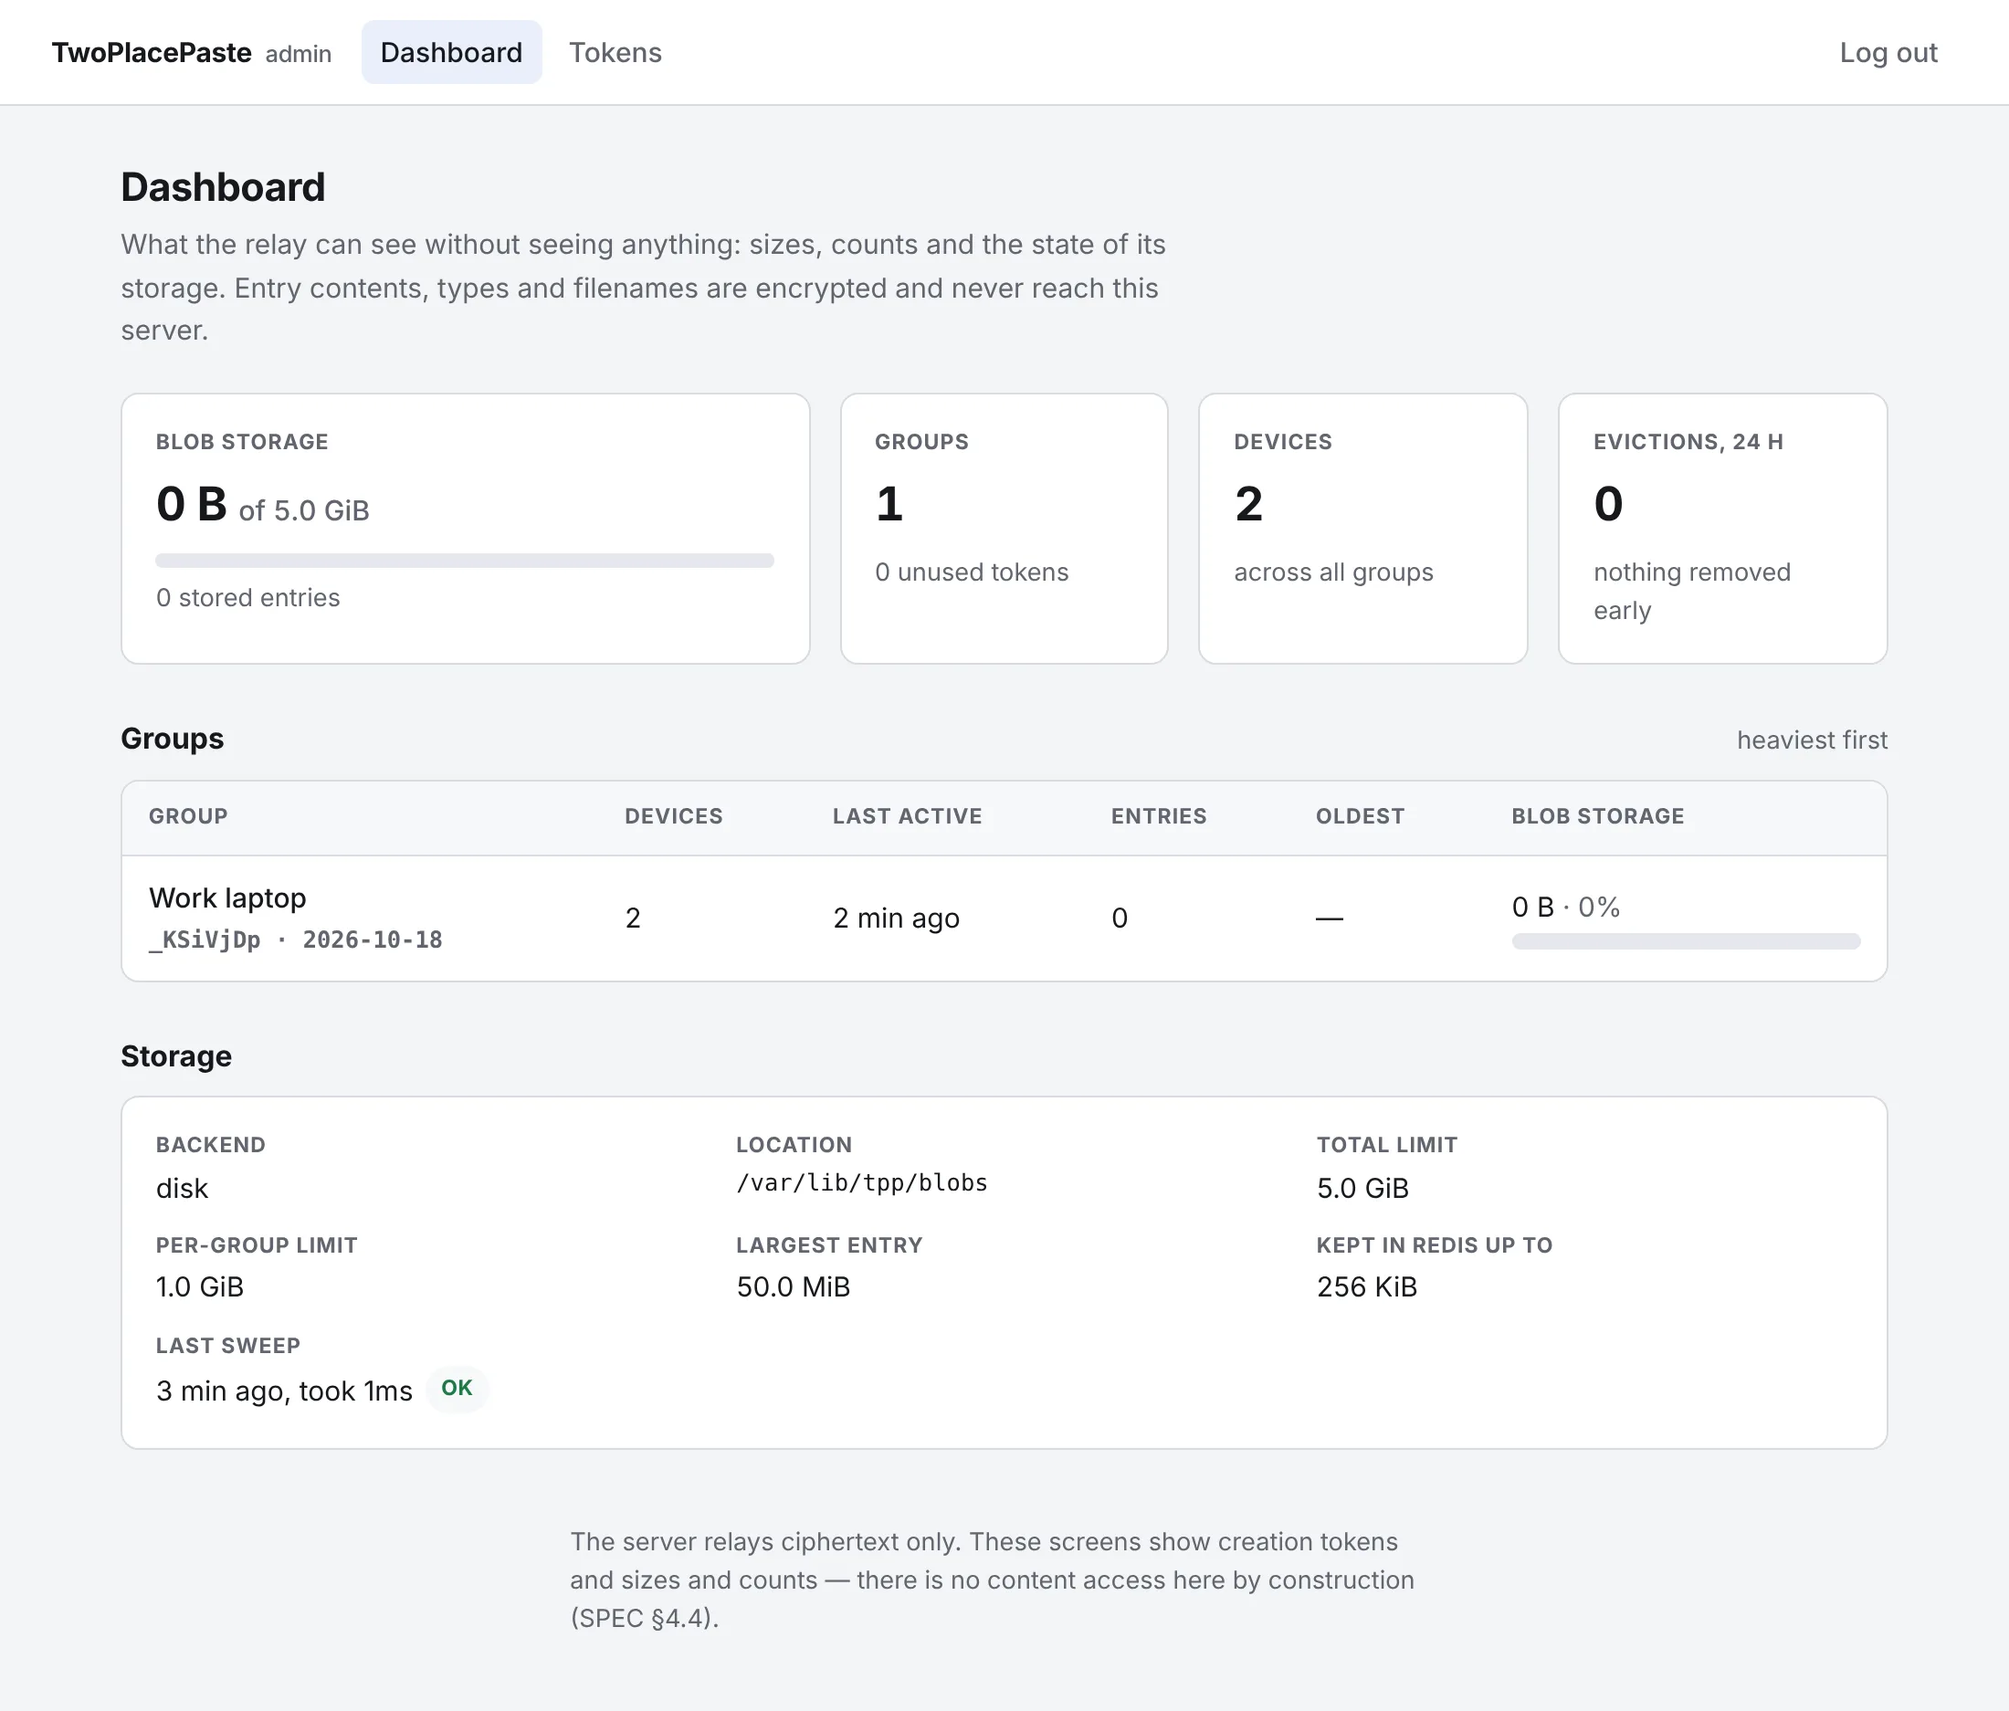
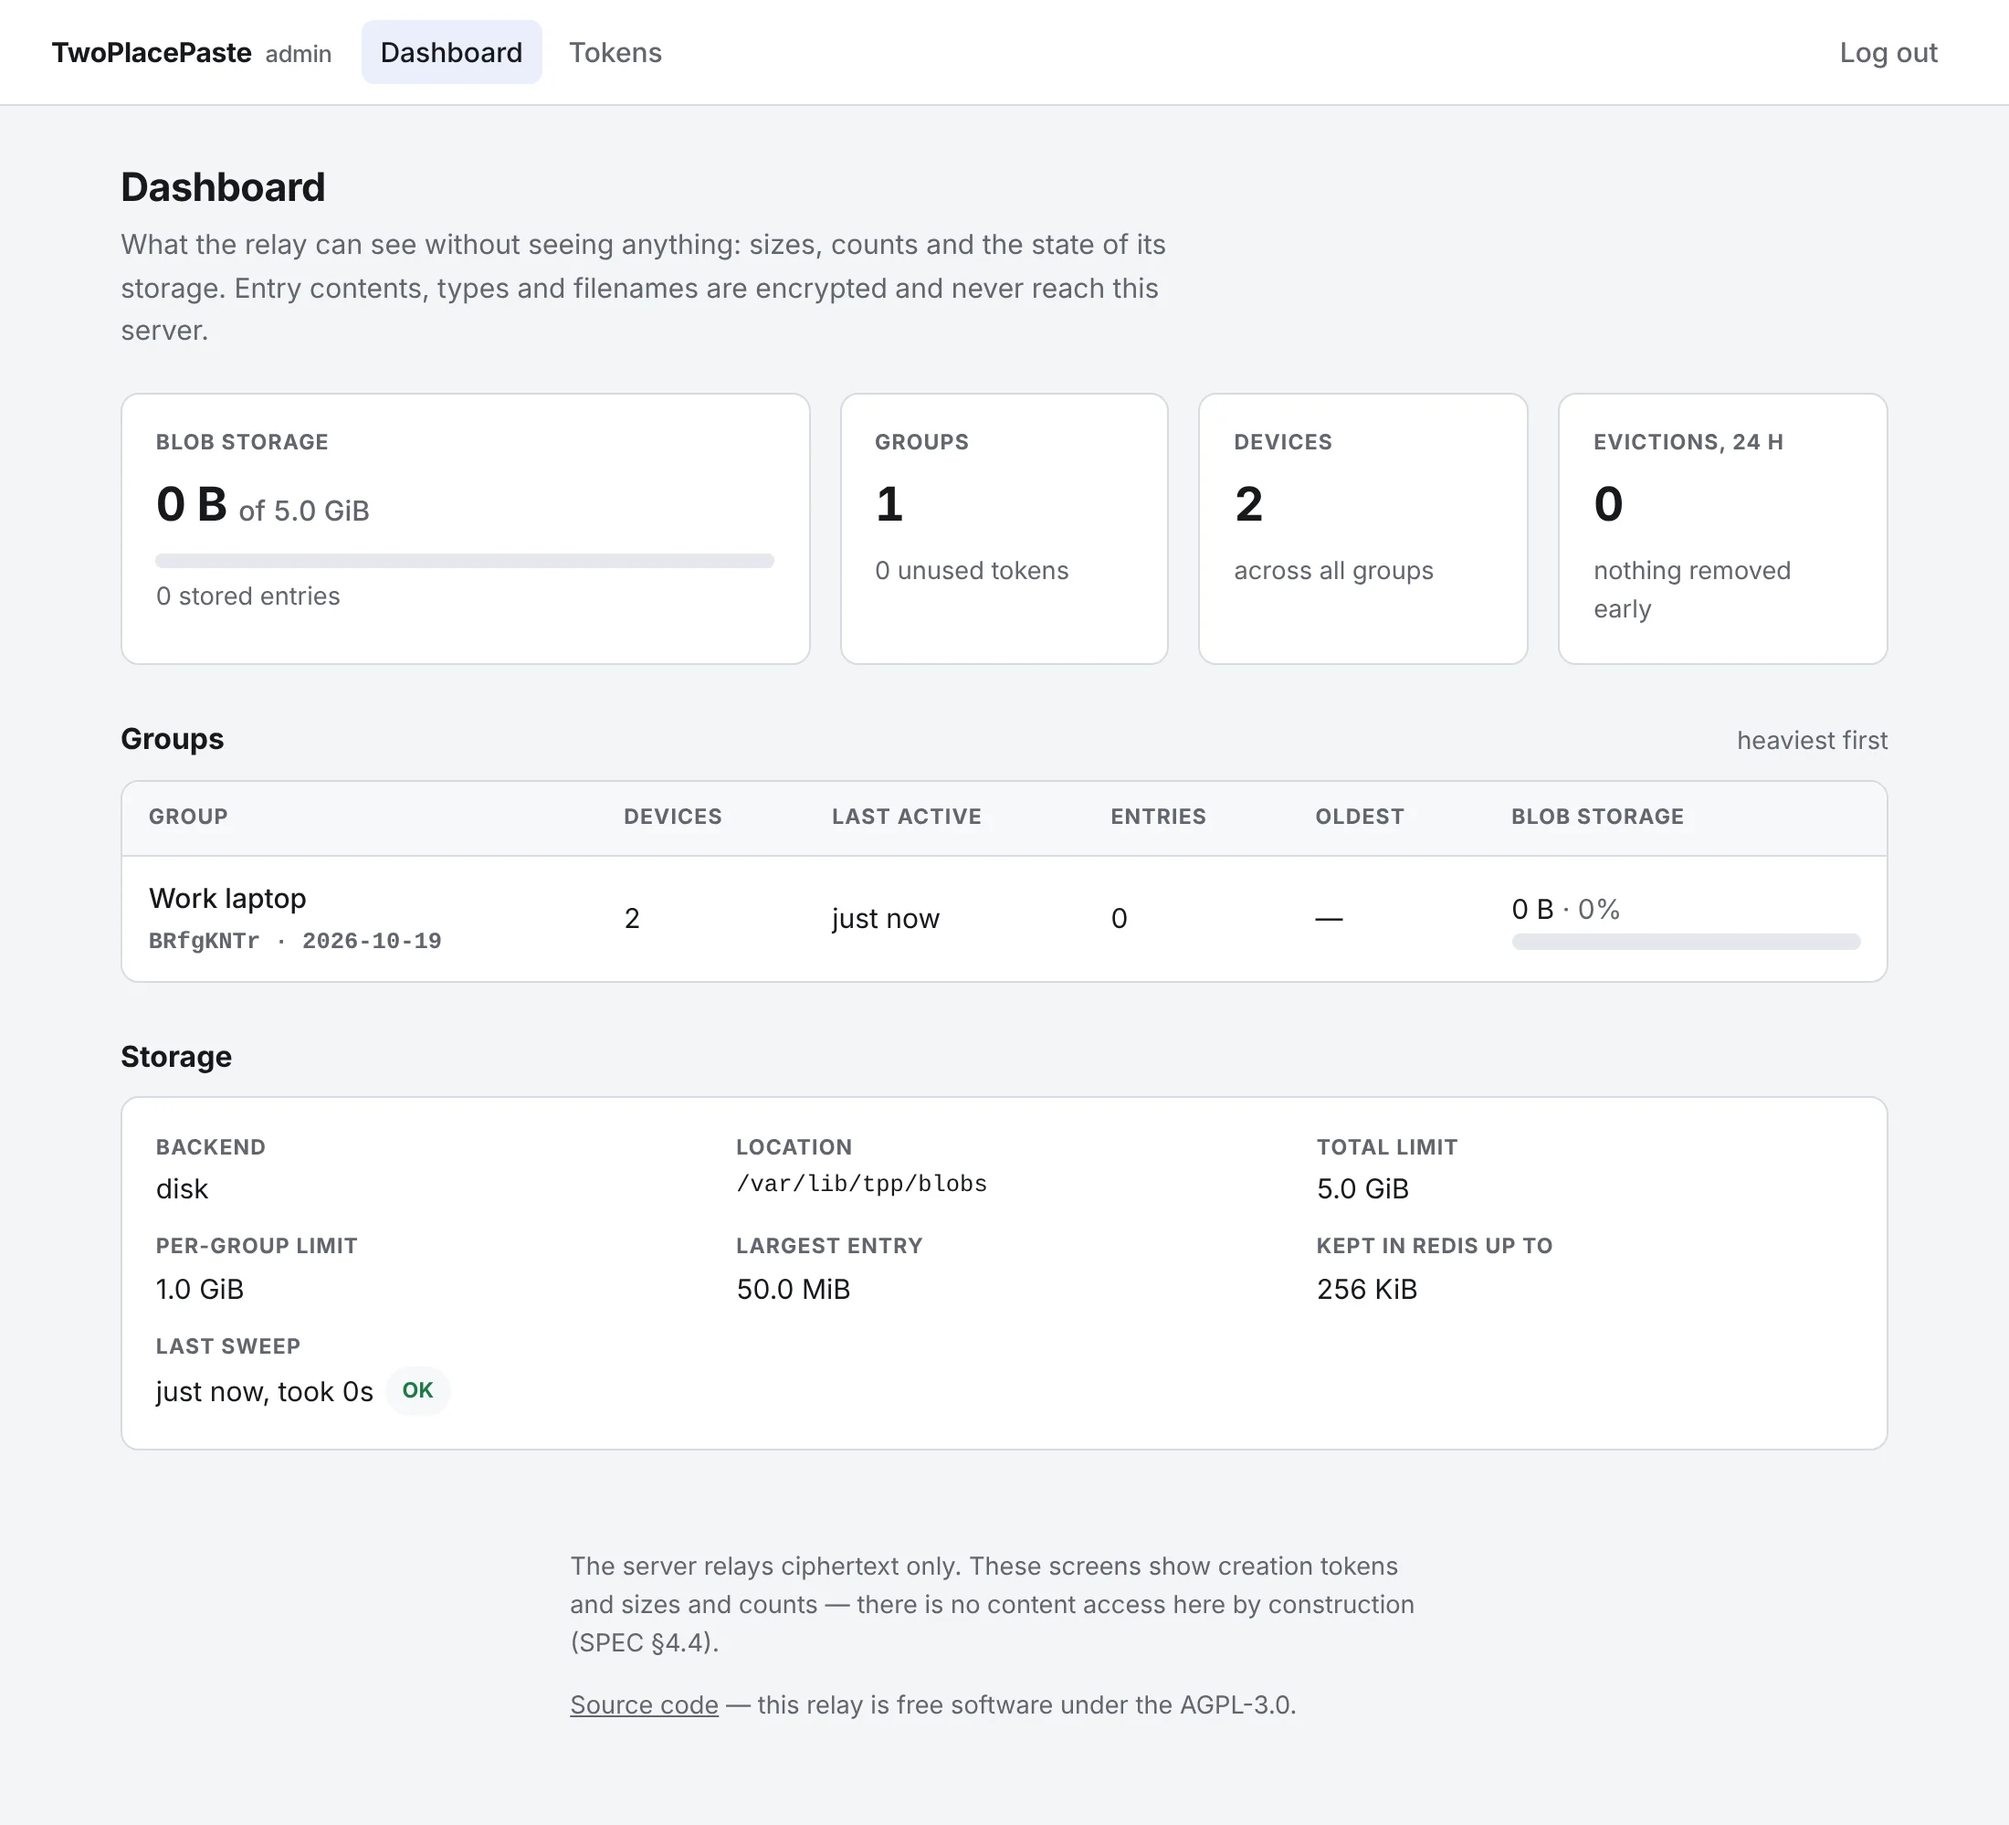
Link the relay's pages to its source code
The relay is AGPL-3.0, which asks that anyone running a modified relay
for other people offers those people its source. The relay now links to
its source from every page it serves to people, and operators of a fork
point that link at their own code with one setting.

- server: new TPP_SOURCE_URL setting (default: the upstream GitHub
  repository, must be http:// or https://) and GET /source, which
  redirects to it (internal/sourcelink). The pairing page stays a
  static file because it links to /source rather than embedding the
  URL.
- Admin pages (login included) and the pairing page show a "Source
  code" link in the footer.
- Docs: the setting in configuration.md and deploy/.env.example, the
  /source endpoint, how the link relates to the AGPL in the self-hosting
  overview, and retaken admin screenshots.
- LICENSING.md and CLAUDE.md mention the link and that new human-facing
  pages must keep it.

Claude-Session: https://claude.ai/code/session_016wNNAFUyyeJ3RLgMAUAmiP

diff --git a/server/web/admin/base.html b/server/web/admin/base.html
@@ -29,11 +29,12 @@
 {{if .Error}}<p class="notice error" role="alert">{{.Error}}</p>{{end}}
 {{template "content" .}}
 </main>
-{{if .Authenticated}}
 <footer>
-  The server relays ciphertext only. These screens show creation tokens and
-  sizes and counts — there is no content access here by construction (SPEC §4.4).
+  {{if .Authenticated}}
+  <p>The server relays ciphertext only. These screens show creation tokens and
+  sizes and counts — there is no content access here by construction (SPEC §4.4).</p>
+  {{end}}
+  <p><a href="/source">Source code</a> — this relay is free software under the AGPL-3.0.</p>
 </footer>
-{{end}}
 </body>
 </html>{{end}}

diff --git a/server/web/pair/page.html b/server/web/pair/page.html
@@ -40,8 +40,9 @@
   </div>
 </main>
 <footer class="muted small">
-  The code is in this link's fragment, so it was never sent to this server. The
-  page you are reading was served without it, and this relay does not know it.
+  <p>The code is in this link's fragment, so it was never sent to this server. The
+  page you are reading was served without it, and this relay does not know it.</p>
+  <p><a href="/source">Source code</a></p>
 </footer>
 </body>
 </html>

diff --git a/server/web/pair/style.css b/server/web/pair/style.css
@@ -89,3 +89,6 @@ footer { width: min(26rem, 100%); text-align: center; margin: 0; }
 }
 
 .status { min-height: 1.3em; margin: 0.5rem 0 0; font-size: 0.85rem; color: var(--muted); }
+
+/* The "Source code" link sits in muted text and should read as part of it. */
+footer a { color: inherit; }

diff --git a/server/web/admin/style.css b/server/web/admin/style.css
@@ -679,3 +679,6 @@ dialog::backdrop { background: rgba(10, 12, 16, 0.45); }
   white-space: nowrap;
   border: 0;
 }
+
+/* The "Source code" link sits in muted text and should read as part of it. */
+footer a { color: inherit; }

diff --git a/server/internal/config/config.go b/server/internal/config/config.go
@@ -49,6 +49,10 @@ const (
 	DefaultChunk         = 8 << 20   // 8 MiB: under the frame cap, over S3's 5 MiB part floor
 	DefaultUploadTTL     = 10 * time.Minute
 
+	// DefaultSourceURL is where the relay's "Source code" link points unless
+	// the operator sets TPP_SOURCE_URL.
+	DefaultSourceURL = "https://github.com/Mark7888/two-place-paste"
+
 	// DefaultGroupMax is the per-group blob storage limit. The total limit
 	// defaults to unlimited: only the operator knows how big the volume or
 	// bucket is.
@@ -65,6 +69,11 @@ type Config struct {
 	// "https://tpp.example.com". Creation-token URLs and their QR codes are
 	// built from it (SPEC §3.1, §4.4), so it must not include a path.
 	PublicBaseURL string
+
+	// SourceURL is where the relay's "Source code" link points. The server is
+	// AGPL-3.0: whoever runs a modified relay for other people has to offer
+	// them its source, and pointing this at their fork is how they do it.
+	SourceURL string
 
 	LogLevel slog.Level
 
@@ -234,6 +243,7 @@ func Load(opts Options) (*Config, error) {
 	cfg := &Config{
 		HTTPAddr:      r.str("TPP_HTTP_ADDR", DefaultHTTPAddr),
 		PublicBaseURL: strings.TrimRight(r.str("TPP_PUBLIC_BASE_URL", ""), "/"),
+		SourceURL:     r.str("TPP_SOURCE_URL", DefaultSourceURL),
 		LogLevel:      r.logLevel("TPP_LOG_LEVEL", slog.LevelInfo),
 		Redis: RedisConfig{
 			Addr:     r.str("TPP_REDIS_ADDR", DefaultRedisAddr),
@@ -279,6 +289,9 @@ func (c *Config) Validate() error {
 		errs = append(errs, errors.New("TPP_PUBLIC_BASE_URL is required (creation-token URLs and QR codes are built from it)"))
 	} else if !strings.HasPrefix(c.PublicBaseURL, "http://") && !strings.HasPrefix(c.PublicBaseURL, "https://") {
 		errs = append(errs, fmt.Errorf("TPP_PUBLIC_BASE_URL must start with http:// or https://, got %q", c.PublicBaseURL))
+	}
+	if !strings.HasPrefix(c.SourceURL, "http://") && !strings.HasPrefix(c.SourceURL, "https://") {
+		errs = append(errs, fmt.Errorf("TPP_SOURCE_URL must start with http:// or https://, got %q", c.SourceURL))
 	}
 	if c.Redis.Addr == "" {
 		errs = append(errs, errors.New("TPP_REDIS_ADDR must not be empty"))

diff --git a/server/internal/sourcelink/sourcelink_test.go b/server/internal/sourcelink/sourcelink_test.go
@@ -1,0 +1,64 @@
+package sourcelink_test
+
+import (
+	"net/http"
+	"net/http/httptest"
+	"testing"
+
+	"github.com/Mark7888/two-place-paste/server/internal/httpapi"
+	"github.com/Mark7888/two-place-paste/server/internal/sourcelink"
+)
+
+func TestRedirectsToSourceURL(t *testing.T) {
+	t.Parallel()
+
+	tests := []struct {
+		name string
+		url  string
+	}{
+		{"upstream", "https://github.com/Mark7888/two-place-paste"},
+		{"fork with a path", "https://git.example.com/someone/tpp-fork/src/branch/main"},
+	}
+	for _, tt := range tests {
+		t.Run(tt.name, func(t *testing.T) {
+			t.Parallel()
+
+			srv := httptest.NewServer(httpapi.New(sourcelink.New(tt.url)))
+			t.Cleanup(srv.Close)
+			client := srv.Client()
+			client.CheckRedirect = func(*http.Request, []*http.Request) error { return http.ErrUseLastResponse }
+
+			resp, err := client.Get(srv.URL + "/source")
+			if err != nil {
+				t.Fatalf("GET /source: %v", err)
+			}
+			t.Cleanup(func() { _ = resp.Body.Close() })
+
+			if resp.StatusCode != http.StatusFound {
+				t.Errorf("status = %d, want %d", resp.StatusCode, http.StatusFound)
+			}
+			if got := resp.Header.Get("Location"); got != tt.url {
+				t.Errorf("Location = %q, want %q", got, tt.url)
+			}
+			if got := resp.Header.Get("Cache-Control"); got != "no-store" {
+				t.Errorf("Cache-Control = %q, want %q", got, "no-store")
+			}
+		})
+	}
+}
+
+func TestOnlyGet(t *testing.T) {
+	t.Parallel()
+
+	srv := httptest.NewServer(httpapi.New(sourcelink.New("https://example.com/src")))
+	t.Cleanup(srv.Close)
+
+	resp, err := srv.Client().Post(srv.URL+"/source", "text/plain", nil)
+	if err != nil {
+		t.Fatalf("POST /source: %v", err)
+	}
+	t.Cleanup(func() { _ = resp.Body.Close() })
+	if resp.StatusCode != http.StatusMethodNotAllowed {
+		t.Errorf("POST /source status = %d, want %d", resp.StatusCode, http.StatusMethodNotAllowed)
+	}
+}

diff --git a/server/internal/sourcelink/sourcelink.go b/server/internal/sourcelink/sourcelink.go
@@ -1,0 +1,37 @@
+// Package sourcelink serves GET /source, the relay's link to its own source
+// code.
+//
+// The relay is licensed under the AGPL-3.0, which asks that anyone who runs a
+// modified relay for other people offers those people its source. The admin
+// and pairing pages link here, and this redirects to TPP_SOURCE_URL, so an
+// operator running a fork points every link at it by changing one setting.
+//
+// It is a redirect rather than a URL baked into each page so the pairing page
+// can stay a static file.
+package sourcelink
+
+import "net/http"
+
+// Server redirects GET /source to the configured source code URL.
+type Server struct {
+	url string
+}
+
+// New returns a Server that redirects to url. The config loader has already
+// checked that url is an http:// or https:// URL.
+func New(url string) *Server {
+	return &Server{url: url}
+}
+
+// Register installs GET /source.
+func (s *Server) Register(mux *http.ServeMux) {
+	mux.HandleFunc("GET /source", s.handle)
+}
+
+func (s *Server) handle(w http.ResponseWriter, r *http.Request) {
+	// No-store so a changed TPP_SOURCE_URL takes effect at once, rather than
+	// after a browser forgets a cached redirect.
+	w.Header().Set("Cache-Control", "no-store")
+	w.Header().Set("Referrer-Policy", "no-referrer")
+	http.Redirect(w, r, s.url, http.StatusFound)
+}

diff --git a/server/internal/config/config_test.go b/server/internal/config/config_test.go
@@ -64,6 +64,9 @@ func TestLoadDefaults(t *testing.T) {
 		t.Errorf("Blob limits = total %d, group %d, min free %d; want 0, %d, 0",
 			cfg.Blob.MaxTotalBytes, cfg.Blob.MaxGroupBytes, cfg.Blob.MinFreeBytes, DefaultGroupMax)
 	}
+	if cfg.SourceURL != DefaultSourceURL {
+		t.Errorf("SourceURL = %q, want %q", cfg.SourceURL, DefaultSourceURL)
+	}
 	if cfg.LogLevel != slog.LevelInfo {
 		t.Errorf("LogLevel = %s, want info", cfg.LogLevel)
 	}
@@ -190,6 +193,11 @@ func TestLoadValidationErrors(t *testing.T) {
 			name:    "public base url without scheme",
 			env:     map[string]string{"ADMIN_PASSWORD": "pw", "TPP_PUBLIC_BASE_URL": "tpp.example.com"},
 			wantErr: "must start with http:// or https://",
+		},
+		{
+			name:    "source url without scheme",
+			env:     map[string]string{"ADMIN_PASSWORD": "pw", "TPP_PUBLIC_BASE_URL": "https://x.example", "TPP_SOURCE_URL": "github.com/someone/fork"},
+			wantErr: "TPP_SOURCE_URL must start with http:// or https://",
 		},
 		{
 			name:    "unknown blob backend",

diff --git a/server/cmd/tpp/main.go b/server/cmd/tpp/main.go
@@ -35,6 +35,7 @@ import (
 	"github.com/Mark7888/two-place-paste/server/internal/httpapi"
 	"github.com/Mark7888/two-place-paste/server/internal/pairlink"
 	"github.com/Mark7888/two-place-paste/server/internal/quota"
+	"github.com/Mark7888/two-place-paste/server/internal/sourcelink"
 	"github.com/Mark7888/two-place-paste/server/internal/store"
 	"github.com/Mark7888/two-place-paste/server/internal/ws"
 )
@@ -206,7 +207,10 @@ func serve(args []string) error {
 	// and never sees a code — the code is in the fragment.
 	pairSrv := pairlink.New(logger)
 
-	handler := httpapi.NewWithOptions(httpapi.Options{Logger: logger}, wsSrv, adminSrv, pairSrv)
+	// The "Source code" link on the admin and pairing pages (AGPL-3.0 §13).
+	sourceSrv := sourcelink.New(cfg.SourceURL)
+
+	handler := httpapi.NewWithOptions(httpapi.Options{Logger: logger}, wsSrv, adminSrv, pairSrv, sourceSrv)
 	srv := &http.Server{
 		Addr:              cfg.HTTPAddr,
 		Handler:           handler,

diff --git a/server/internal/admin/admin_test.go b/server/internal/admin/admin_test.go
@@ -559,6 +559,25 @@ func TestWildcardDoesNotShadowOtherRoutes(t *testing.T) {
 	}
 }
 
+// TestPagesLinkToSource covers the AGPL "Source code" link, which every
+// admin page shows, signed in or not.
+func TestPagesLinkToSource(t *testing.T) {
+	t.Parallel()
+
+	f := newFixture(t, "https://tpp.example.com")
+	c := f.client()
+
+	if body := readBody(t, f.get(c, "/admin/login")); !strings.Contains(body, `href="/source"`) {
+		t.Error("the login page has no link to /source")
+	}
+	f.login(c)
+	for _, path := range []string{"/admin/", "/admin/tokens"} {
+		if body := readBody(t, f.get(c, path)); !strings.Contains(body, `href="/source"`) {
+			t.Errorf("GET %s has no link to /source", path)
+		}
+	}
+}
+
 func (f *fixture) postJSON(c *http.Client, path, body string) *http.Response {
 	f.t.Helper()
 	req, err := http.NewRequestWithContext(context.Background(), http.MethodPost, f.srv.URL+path, strings.NewReader(body))

diff --git a/server/internal/pairlink/pairlink_test.go b/server/internal/pairlink/pairlink_test.go
@@ -104,3 +104,15 @@ func TestPageCarriesNoCode(t *testing.T) {
 		t.Error("the page echoed a value from the request")
 	}
 }
+
+// The relay is AGPL-3.0, so the one page it serves to people links to its
+// source (internal/sourcelink serves the redirect).
+func TestPageLinksToSource(t *testing.T) {
+	t.Parallel()
+	srv := serve(t)
+
+	_, body := get(t, srv, "/pair")
+	if !strings.Contains(body, `href="/source"`) {
+		t.Error("the pairing page has no link to /source")
+	}
+}

diff --git a/docs/site/src/content/docs/self-hosting/configuration.md b/docs/site/src/content/docs/self-hosting/configuration.md
@@ -26,6 +26,7 @@ Sizes take a plain byte count or a unit: `500MB`, `5GiB`, `1.5GiB`.
 | `TPP_HOST_BIND_ADDR` | `127.0.0.1` | Compose only: the host address the port is published on. Change it only when the proxy is on another machine, and name one private interface — never `0.0.0.0`. |
 | `TPP_LOG_LEVEL` | `info` | `debug`, `info`, `warn` or `error`. Even `debug` never logs clipboard content. |
 | `TPP_ADMIN_SESSION_TTL` | `12h` | How long an admin sign-in lasts. |
+| `TPP_SOURCE_URL` | `https://github.com/Mark7888/two-place-paste` | Where the **Source code** link on the admin and pairing pages points. If you run a modified relay for other people, set it to your version's source — see [License](/two-place-paste/self-hosting/overview/#license). |
 
 ## Redis
 
